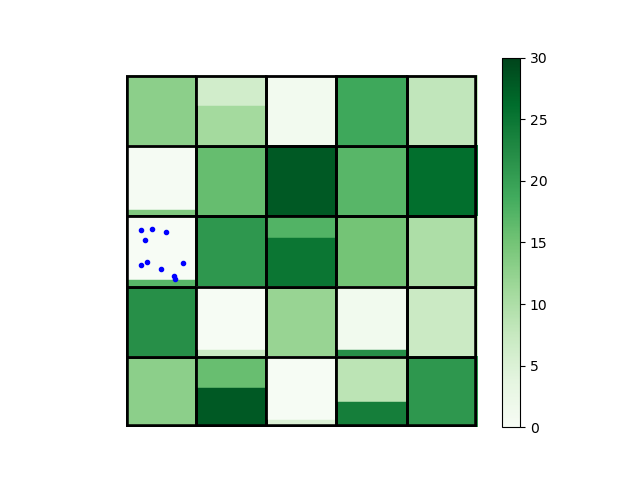
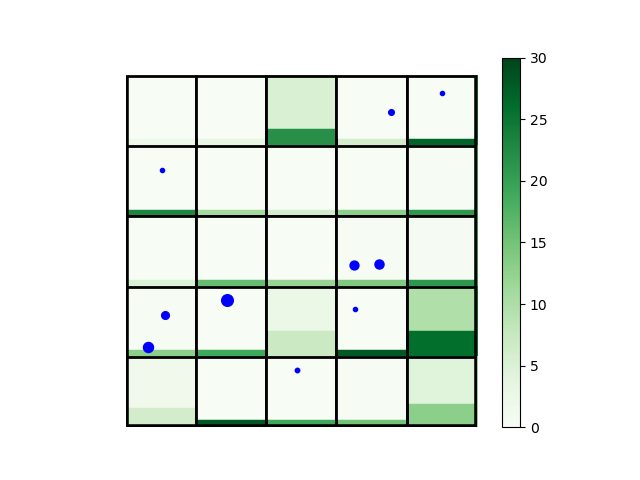
debugged and added stats

diff --git a/Run.py b/Run.py
@@ -26,14 +26,15 @@ def batchRun(board, numScientists, numRuns, data):
     During each run, each scientist in the department queries the board.
     At the end, an animation of the plots of each run is generated.
     """
-    weights = data["cellChoiceWeights"]
-    funding = data["fundingParams"]
-    chooseCellToFund = data["fundDistributionFactors"]
+    weights = data["cell"]
+    funding = data["fund"]
+    chooseCellToFund = data["fundFactors"]
     # semi-firm parameters that you could easily change but probabily won't need to
-    exp = data["expForProbabilities"]["num"]
-    starFactorWeights = data["starFactorWeights"]
+    exp = data["exp"]["num"]
+    starFactorWeights = data["star"]
 
     dept = [Scientist() for i in range(numScientists)]
+    attrition = 0
     for j in range(numRuns):
         # keep track of which cells the scientists are hitting to check overlap
         # funding for the first year is determined randomly
@@ -52,6 +53,11 @@ def batchRun(board, numScientists, numRuns, data):
                 board.cellsHit.update({location : [scientist]})
             # when one scientist ends their career, another is introduced
             if (scientist.career == 0) or (scientist.funding <= funding["minimum"]):
+                # attrition is the number of scientists who left science due to lack of funding
+                if (scientist.funding <= funding["minimum"]):
+                    attrition += 1
+                # record the data of scientists who left science
+                board.sStats.append([scientist.funding, scientist.getStarFactor(starFactorWeights), scientist.citcount])
                 dept.remove(scientist)
                 dept.append(Scientist())
         oneRun(board, board.cellsHit, j+1, starFactorWeights)
@@ -68,5 +74,19 @@ def batchRun(board, numScientists, numRuns, data):
     frame_one = frames[0]
     frame_one.save("animation.gif", format="GIF", append_images=frames,
             save_all=True, duration=500, loop=1)
-    return
+
+    # add the scientist stats from the ten scientists at the very end
+    for scientist in dept:
+        board.sStats.append([scientist.funding, scientist.getStarFactor(starFactorWeights), scientist.citcount])
+
+    # add percentage of board discovered and attrition stats
+    board.bStats = [(board.totalPayoff - currTotal)/board.totalPayoff*100, 
+                    attrition]
+
+    # get cell funds and payoff of the board at the end
+    for x in range(board.rows):
+            for y in range(board.cols):
+                cell = board.board[x][y]
+                board.cStats.append([cell.totalFunds, board.getVisPayoff(cell.location)])
+    return [board.bStats, board.cStats, board.sStats]
 

diff --git a/classBoard.py b/classBoard.py
@@ -30,6 +30,10 @@ class Board():
         #dictionary of cell location with scientists currently querying it
         self.cellsHit = {}
 
+        self.bStats = []
+        self.cStats = []
+        self.sStats = []
+
     def __repr__(self):
         """string representation of Board"""
         return str(self.board)
@@ -105,8 +109,8 @@ class Board():
                     starWeight = chooseCellToFund["starFactor"]
                 #calculates the rest of the weights
                 visWeight = chooseCellToFund["visPayoff"] * (self.getVisPayoff(cell.location))
-                numHitsWeight = chooseCellToFund["numHits"] * (cell.numHits)
-                recentHitsWeight = chooseCellToFund["numSciHits"] * (cell.numSciHits)
+                numHitsWeight = chooseCellToFund["totalHits"] * (cell.numHits)
+                recentHitsWeight = chooseCellToFund["recentHits"] * (cell.numSciHits)
 
                 denominator += (visWeight + starWeight + numHitsWeight + recentHitsWeight) ** exp
         
@@ -119,6 +123,7 @@ class Board():
                     #fund cell and then scientist based on probabilities
                     cell = self.board[i][j]
                     cell.funds = probabilities[i][j] * funding["total"]
+                    cell.totalFunds += probabilities[i][j] * funding["total"]
                     if cell.location in self.cellsHit.keys():
                         self.distributeFundingSci(cell, self.cellsHit[cell.location], cell.funds, starFactorWeights)
             return probabilities
@@ -151,6 +156,7 @@ class Board():
 
                 #fund cell and then scientist based on probabilities
                 cell.funds = probabilities[j][k] * funding["total"]
+                cell.totalFunds += probabilities[j][k] * funding["total"]
                 if cell.location in self.cellsHit.keys():
                     self.distributeFundingSci(cell, self.cellsHit[cell.location], cell.funds, starFactorWeights)
         return probabilities

diff --git a/experiment.py b/experiment.py
@@ -1,4 +1,5 @@
 import json
+import csv
 from Run import *
 
 inp = "default.json"
@@ -29,10 +30,40 @@ def experiment(numScientists, numRuns, numExperiments):
             return
         inputStr = input()
 
-    N = data["payoffExtractionParams"]["N"]
-    D = data["payoffExtractionParams"]["D"]
-    p = data["payoffExtractionParams"]["p"]
+    N = data["payoff"]["N"]
+    D = data["payoff"]["D"]
+    p = data["payoff"]["p"]
     board = Board(5, 5, 0, N, D, p)
+
+    bStats = []
+    cStats = []
+    sStats = []
     for x in range(numExperiments):
-        batchRun(board, numScientists, numRuns, data)
+        batchResult = batchRun(board, numScientists, numRuns, data)
+        bStats.append(batchResult[0])
+        cStats.append(batchResult[1])
+        sStats.append(batchResult[2])
+
+    # write stats to csv output file
+    # each experiment's stats appear in one row
+    boardStats = "boardStats.csv"
+    with open(boardStats, 'w', newline='') as file:
+        writer = csv.writer(file)
+        header = ['Percentage Payoff Discovered', 'Attrition']
+        writer.writerow(header)
+        writer.writerows(bStats)
+
+    cellStats = "cellStats.csv"
+    with open(cellStats, 'w', newline='') as file:
+        writer = csv.writer(file)
+        header = ['Funds', 'Payoff Extracted']
+        writer.writerow(header)
+        writer.writerows(cStats)
+    
+    sciStats = "sciStats.csv"
+    with open(sciStats, 'w', newline='') as file:
+        writer = csv.writer(file)
+        header = ['Total Funding Accumulated', 'starFactor', 'Citation Count']
+        writer.writerow(header)
+        writer.writerows(sStats)
     return

diff --git a/classScientist.py b/classScientist.py
@@ -22,7 +22,7 @@ class Scientist():
         i = starFactorWeights["impact"]
         f = starFactorWeights["funding"]
         denom = (31 - self.career) 
-        overall = (c*self.citcount + i*self.impact + f*self.funding)/denom - 2*denom
+        overall = (c*self.citcount + i*self.impact + f*self.funding)/denom - 3
         return overall
 
     def probCell(self, board, weights, exp):

diff --git a/classCell.py b/classCell.py
@@ -13,6 +13,7 @@ class Cell():
         self.stepSize, self.slopeVals = self.setStepSize(D, p)
         self.numSciHits = 0
         self.funds = 0
+        self.totalFunds = 0
 
     def __repr__(self):
         """string representation of Cell"""
